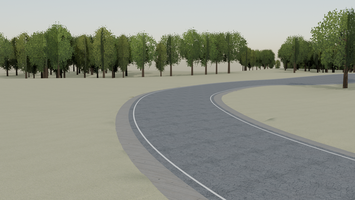
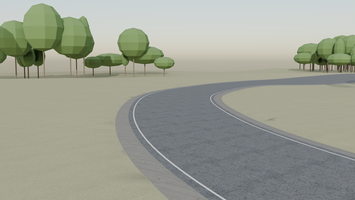
Milford 0.1.5 installed as milford_road_course (Kevin's overnight word): install records, the menu picture off 0.1.5, ledger 0082 note
Rehearsal 0082-4 / 0087-2 matched M.5's 0.1.5 column on every row (road kn5 39,006,968 B, veg_verify / mesh_diff /
crown_check as the Mac's); installed from an empty workshop to the plain folder, kn5 = the rehearsal's (tangents only);
milford_road_course_lm 0.1.4 moved first to D:/k10-track-archive/2026-11-08_011149_milford/. The TreeFX models (Oak3,
SycamoreV2, md5-checked) are in the installed extension/trees/, never committed. The menu picture re-rendered off 0.1.5
with stand-in trees (tools/menu_preview_blend.py --standins, new).

Changed region(s): [[0.0, 0.0, 1.0, 0.45]]

diff --git a/tools/menu_preview_blend.py b/tools/menu_preview_blend.py
@@ -13,7 +13,10 @@ line = data/lap.<lap>.json when it exists, else data/centerline.local.json; the 
 (data/dummies_<layout>.json, AC_START_0 ahead of AC_START_1; a one-car grid: the order of AC_TIME_0, 1, 2)
 against the line's point order. --phase shifts the
 stations along the lap (a fraction of one station step). --sun-label names the light (every track uses the same
-sun, so the menu reads as one set); --exposure (EV) holds a pale ground (ground_dry) off white."""
+sun, so the menu reads as one set); --exposure (EV) holds a pale ground (ground_dry) off white.
+--standins <trees json> (e.g. source/vegetation/trees.lm.json): TreeFX trees are drawn by the game, not in the kn5, so
+the picture shows the Mac's stills' stand-ins there (veg_stills_blend.py, ledger 0082: a trunk and an ellipsoid crown at
+each planted tree's measured height and crown width; the game draws its TreeFX models in their place)."""
 import argparse
 import json
 import math
@@ -37,6 +40,7 @@ ap.add_argument("--reverse", default="auto", choices=("auto", "yes", "no"))
 ap.add_argument("--phase", type=float, default=0.0)
 ap.add_argument("--sun-label", default="San Diego, 7 Nov, 15:30 PST")
 ap.add_argument("--exposure", type=float, default=0.0)
+ap.add_argument("--standins", default="")
 A = ap.parse_args(sys.argv[sys.argv.index("--") + 1:])
 PROJ, LAYOUT, OUT, N, RES_X = Path(A.project), A.layout, A.out, A.n, A.res_x
 ONLY = [int(s) for s in A.stations.split(",")] if A.stations else None
@@ -95,6 +99,75 @@ def road_bvh():
 
 
 road = road_bvh()
+
+
+def standins(path):
+    """the Mac's stills' stand-in trees (source/vegetation/scripts/veg_stills_blend.py, the same shapes and colours)"""
+    gv, gp = [], []
+    for o in bpy.data.objects:
+        if o.type == "MESH" and o.name.upper().startswith(("1ROAD", "1GRASS", "1KERB", "GRASS_FAR")):
+            off = len(gv)
+            gv += [o.matrix_world @ Vector(v.co) for v in o.data.vertices]
+            gp += [[off + i for i in q.vertices] for q in o.data.polygons]
+    ground = BVHTree.FromPolygons(gv, gp)
+    cl = json.loads((DATA / "centerline.local.json").read_text(encoding="utf-8"))
+    org = cl["origin"]
+    phi = math.radians(org["lat"])
+    m_lat = 111132.954 - 559.822 * math.cos(2 * phi) + 1.175 * math.cos(4 * phi)
+    m_lon = 111412.84 * math.cos(phi) - 93.5 * math.cos(3 * phi) + 0.118 * math.cos(5 * phi)
+    verts, faces, tv, tf, n = [], [], [], [], 0
+    SEG, RING = 10, 6
+    for lon, lat, _zone, h, w, *_ in json.loads(Path(path).read_text(encoding="utf-8"))["points"]:
+        x, y = (lon - org["lon"]) * m_lon, (lat - org["lat"]) * m_lat
+        hit = ground.ray_cast(Vector((x, y, 3000.0)), Vector((0, 0, -1)), 6000.0)
+        if hit[0] is None:
+            continue
+        g = float(hit[0].z)
+        crown_h = max(2.0, 0.62 * h)
+        rx = max(1.0, w / 2.0)
+        cz = g + h - crown_h / 2
+        base = len(verts)
+        for j in range(1, RING):
+            t = math.pi * j / RING
+            for i in range(SEG):
+                q = 2 * math.pi * i / SEG
+                verts.append((x + rx * math.sin(t) * math.cos(q), y + rx * math.sin(t) * math.sin(q),
+                              cz + crown_h / 2 * math.cos(t)))
+        top, bot = len(verts), len(verts) + 1
+        verts += [(x, y, cz + crown_h / 2), (x, y, cz - crown_h / 2)]
+        for j in range(RING - 2):
+            for i in range(SEG):
+                a0, a1 = base + j * SEG + i, base + j * SEG + (i + 1) % SEG
+                faces.append((a0, a1, a1 + SEG, a0 + SEG))
+        last = base + (RING - 2) * SEG
+        for i in range(SEG):
+            faces.append((top, base + (i + 1) % SEG, base + i))
+            faces.append((bot, last + i, last + (i + 1) % SEG))
+        tb = len(tv)
+        for i in range(6):
+            q = 2 * math.pi * i / 6
+            tv += [(x + 0.25 * math.cos(q), y + 0.25 * math.sin(q), g - 0.2), (x + 0.25 * math.cos(q), y + 0.25 * math.sin(q), cz)]
+        for i in range(6):
+            k, k1 = tb + 2 * i, tb + 2 * ((i + 1) % 6)
+            tf.append((k, k1, k1 + 1, k + 1))
+        n += 1
+    for name, V, F, col in (("STANDIN_CROWN", verts, faces, (0.16, 0.30, 0.10, 1)),
+                            ("STANDIN_TRUNK", tv, tf, (0.25, 0.19, 0.13, 1))):
+        me = bpy.data.meshes.new(name)
+        me.from_pydata(V, [], F)
+        me.update()
+        ob = bpy.data.objects.new(name, me)
+        mat = bpy.data.materials.new(name)
+        mat.use_nodes = True
+        mat.node_tree.nodes["Principled BSDF"].inputs["Base Color"].default_value = col
+        mat.node_tree.nodes["Principled BSDF"].inputs["Roughness"].default_value = 0.9
+        me.materials.append(mat)
+        bpy.context.scene.collection.objects.link(ob)
+    print(f"[preview] stand-in trees: {n} from {path}")
+    return n
+
+
+N_STAND = standins(A.standins if Path(A.standins).is_absolute() else PROJ / A.standins) if A.standins else 0
 # the line files are engine frame (x = E, y = up, z = N); the split scene's plan is (x, y) = (E, N)
 pts = [(p[0], p[2]) for p in json.loads(LINE.read_text(encoding="utf-8"))["points_xyz_m"]]
 L = len(pts)
@@ -210,6 +283,7 @@ def shoot(name, eye, look, fov, station):
                        "frame": "blender scene (x, y = the split scene's plan, z up)"},
             "sun": {"azimuth_deg": SUN_AZ, "elevation_deg": SUN_EL, "as": A.sun_label},
             "sky": "Nishita, strength 0.35, altitude 120 m, air 1.2, dust 1.5",
+            "trees": (f"{N_STAND} stand-ins (trunk + ellipsoid crown at measured height and crown) from {A.standins}; the game draws its TreeFX models there" if N_STAND else "as in the kn5"),
             "render": f"EEVEE Next, AgX, exposure {A.exposure:+.1f} EV, {sc.render.resolution_x}x{sc.render.resolution_y}"}
     Path(f"{OUT}_{name}.json").write_text(json.dumps(side, indent=2), encoding="utf-8")
     print(f"[preview] {name}: eye ({eye[0]:.1f}, {eye[1]:.1f}, {eye[2]:.1f}) look ({look[0]:.1f}, {look[1]:.1f}, "

diff --git a/fleet/feedback/0082-milford-furniture-pass-1.md b/fleet/feedback/0082-milford-furniture-pass-1.md
@@ -836,3 +836,34 @@ kn5_textures, house_seat, split_manifest, edge_smoothness (the OBJ path only), t
    the species split. Kevin's questions from the vegetation pass (the reach, the NAIP-only canopy: 428 blobs, 4.43 ha)
    stand unanswered.
 4. Owed 3 / 5-7 of the vegetation pass and ledger 0087's Q1-Q3 stand as they were.
+
+## PC: rehearsal 0082-4 / 0087-2 and the 0.1.5 install (2026-11-08)
+
+- **Trees (step 2)**: `Oak3.bin` 24111ede…, `SycamoreV2.bin` 7010d61f… from `san_diego_lake_murray_v4/extension/trees/`
+  into this worktree's `source/trees/` (a clean detached worktree at `5529aecd`, `D:/k10-worktrees/milford-015`; the
+  main checkout is on another branch); gitignored, `git status` clean there. The same md5s in the workshop's
+  `build/milford_road_course/extension/trees/` and in the installed folder.
+- **ENG**: `eng_mflm_015` = `eng_mflm_f2` + this head's `assets/textures`, 96/96 md5-equal (f2's differed in SOURCES.txt).
+- **Rehearsal** (EMPTY `D:/k10-scratch/milford_015_reh`, `--no-install`): SHIP OK, no force, 30 min. `[grassfx] 1285
+  rectangles, 1285 kept`; `[treefx] planted ... 11247 of 11247`; `11247 trees ... ['Oak3.bin', 'SycamoreV2.bin']`. Every
+  row of M.5's 0.1.5 column: drive_test 0/0/0/0, 6.34 / 16 / 0 / 5, 0/0/0/0; audit CLEAN, walls 43,337 v; verify_kn5 +
+  inis PASS; kn5_ground_check PASS (336 walls, p95 -0.19, hovering 0; 9/9317, max +0.073); kn5_textures PASS 19 / 32 / 49,
+  missing 0; house_seat PASS 3; edge_smoothness PASS (1.19 / 1.22 cm, 0.38 / 0.39 cm, max 2.0 / 1.1 cm); edge_report kerb
+  99.5 %; road kn5 **39,006,968 B**. veg_verify PASS (11,247, nearest paved 4.65 m, 385 colliders, 0 orphans, 0 within
+  reach without one); mesh_diff vs the installed 0.1.4: all 31 shared meshes equal, TREECARD x6 only in 0.1.4, one
+  1WALL (the ghost trunks) only in 0.1.5, `deciduous_atlas.png` only in 0.1.4; crown_check: 0 under 0.25, 0 over 2
+  (crown/height p1/p50/p99 0.18 / 0.45 / 1.31).
+  - PC notes: the chain's python has no numpy, so veg_verify / mesh_diff / crown_check ran in `D:/k10-scratch/lidar-venv`
+    (numpy, Pillow, scipy); crown_check's `os.symlink` needs a privilege Windows withholds, so it ran unmodified through a
+    wrapper that makes directory junctions instead (removed after).
+- **Install** (Kevin, asked on the PC: "Yes, install overnight", on the six conditions, all met): `milford_road_course_lm`
+  0.1.4 moved first to `D:/k10-track-archive/2026-11-08_011149_milford/` (MOVES.tsv: `ac_tidy restore` puts it back); no
+  old-engine `milford_road_course` was in AC; 0.1.4's workshop parked as `milford_lm.0.1.4`; the chain from an EMPTY
+  `D:/k10-scratch/milford_lm`, SHIP OK 01:42. Installed = the workshop build (ui_track.json only); kn5 = the rehearsal's,
+  tangents only (169,041 values). AC now holds one Milford: **`milford_road_course` 0.1.5**, "doooom Michigan — Milford
+  Road Course (unofficial)". The id changed: CM's lap times and setups under `milford_road_course_lm` do not follow.
+  ai/ came back byte-identical.
+- **Menu picture**: re-rendered off 0.1.5 with preview.json's camera (s3, -0.5 EV). TreeFX is the game's, so the picture
+  carries the stills' stand-ins (`tools/menu_preview_blend.py --standins source/vegetation/trees.lm.json`, the shapes of
+  `veg_stills_blend.py`; 10,924 of 11,247 have ground under them in the split scene); copied into AC, the pack's own in
+  `D:/k10-track-archive/2026-11-08_014406_previews/`.
